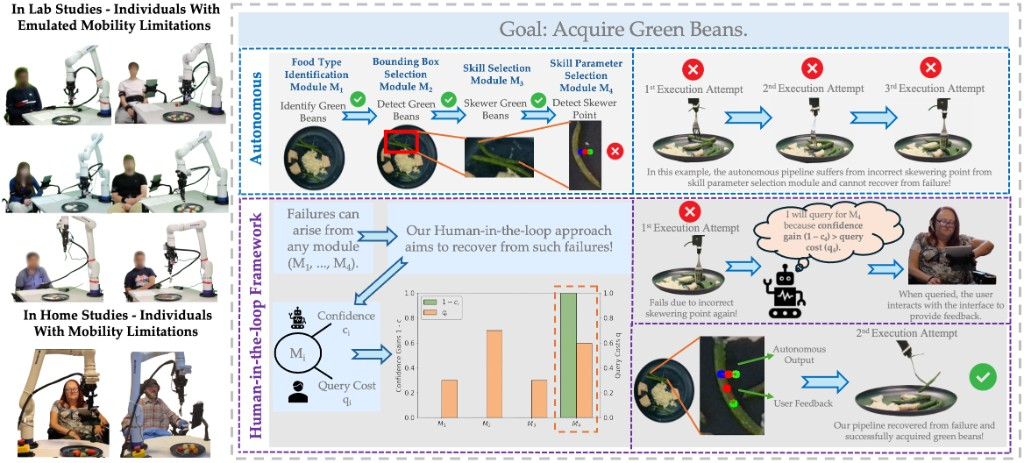
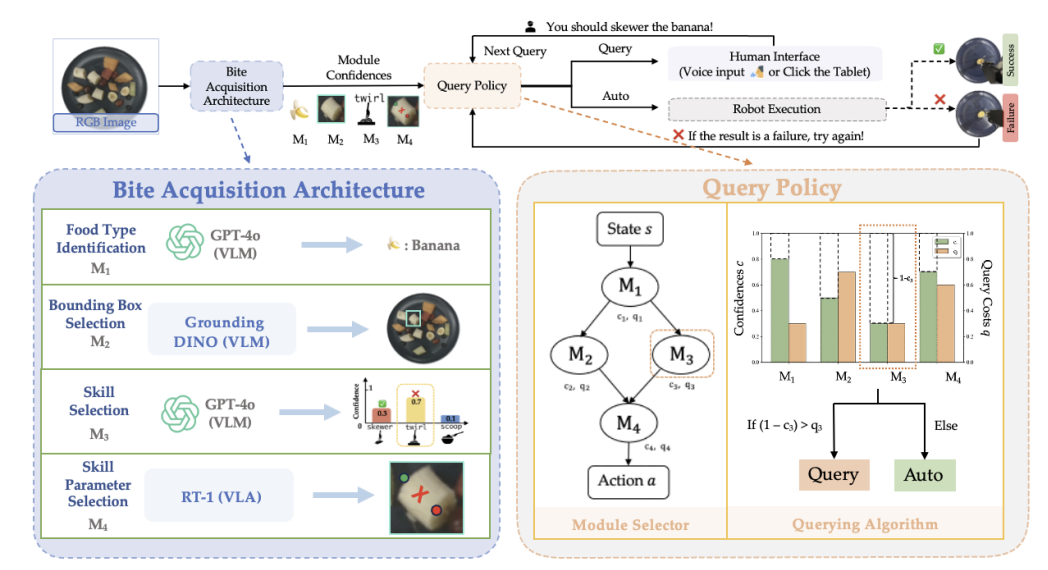
update

diff --git a/stylesheet.css b/stylesheet.css
@@ -116,14 +116,21 @@ h2 {
   background-color: transparent;
   border-radius: 4px;
   overflow: hidden;
+  /* Center the figure; avoid forcing both axes on <img> (fixes cross-browser stretch). */
+  display: flex;
+  align-items: center;
+  justify-content: center;
 }
 
-/* Show full figure without cropping (Jon Barron box is fixed; use letterboxing). */
+/* Fit inside 160×160 without distorting intrinsic aspect ratio (do not set both width and height on the img). */
 .one > img {
-  width: 160px;
-  height: 160px;
+  max-width: 160px;
+  max-height: 160px;
+  width: auto;
+  height: auto;
   object-fit: contain;
   display: block;
+  flex-shrink: 0;
 }
 
 .two {

diff --git a/index.html b/index.html
@@ -58,7 +58,7 @@
             <tr>
               <td style="padding:16px;width:20%;vertical-align:middle">
                 <div class="one">
-                  <img src="images/hri_modular_hil.png" alt="Human-in-the-loop modular policy framework for assistive feeding: lab and home studies, autonomous vs recovery pipeline" width="160" height="160">
+                  <img src="images/hri_modular_hil.png" alt="Human-in-the-loop modular policy framework for assistive feeding: lab and home studies, autonomous vs recovery pipeline" decoding="async">
                 </div>
               </td>
               <td style="padding:8px;width:80%;vertical-align:middle">
@@ -174,7 +174,7 @@
             <tr>
               <td style="padding:16px;width:20%;vertical-align:middle">
                 <div class="one">
-                  <img src="images/force_aware_surgery.png" alt="Force-aware autonomous robotic surgery: dVRK grasper retracting artificial tissue over a force sensor" width="160" height="160">
+                  <img src="images/force_aware_surgery.png" alt="Force-aware autonomous robotic surgery: dVRK grasper retracting artificial tissue over a force sensor" decoding="async">
                 </div>
               </td>
               <td style="padding:8px;width:80%;vertical-align:middle">